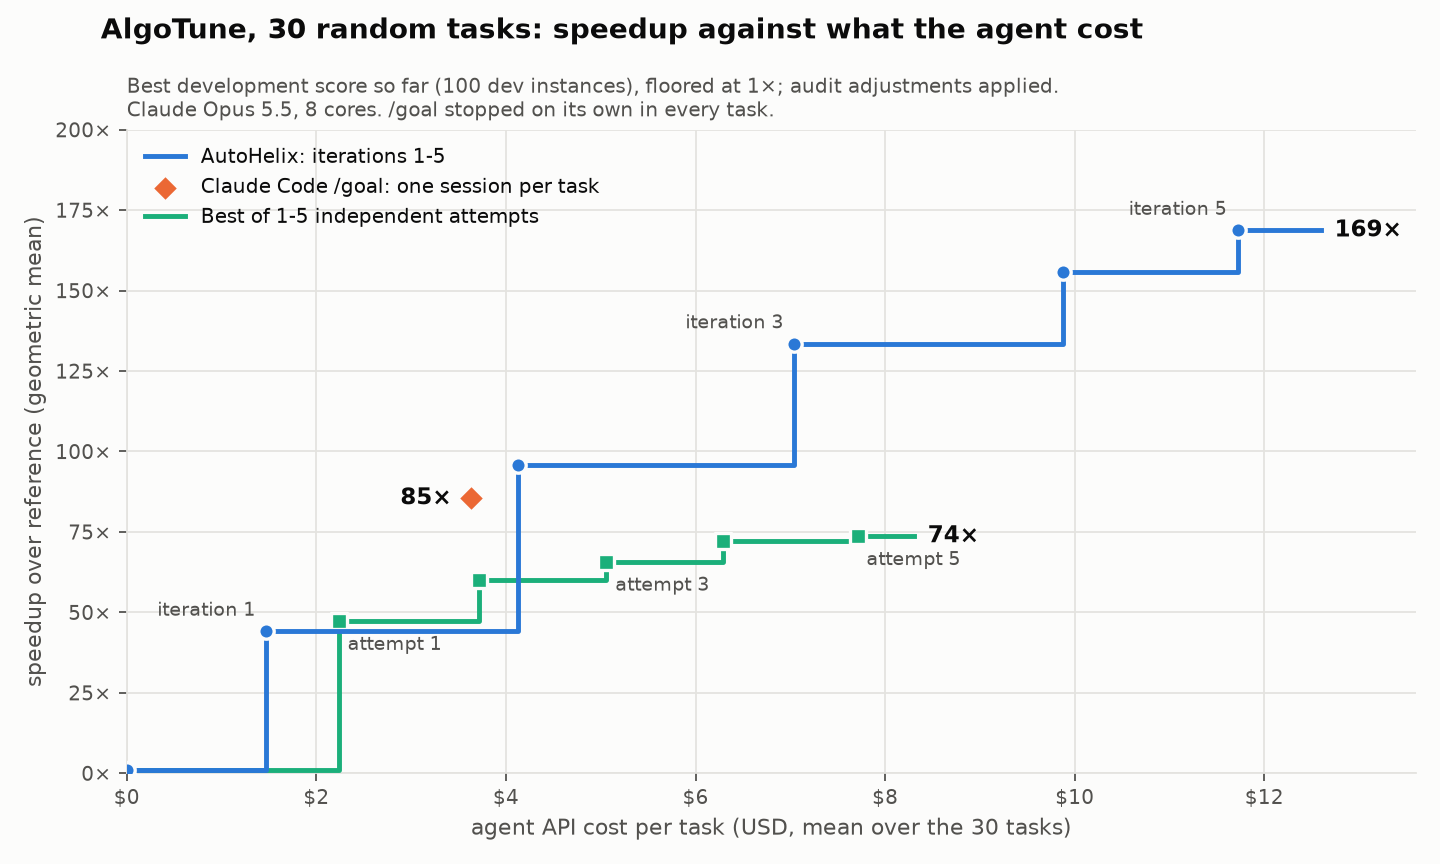
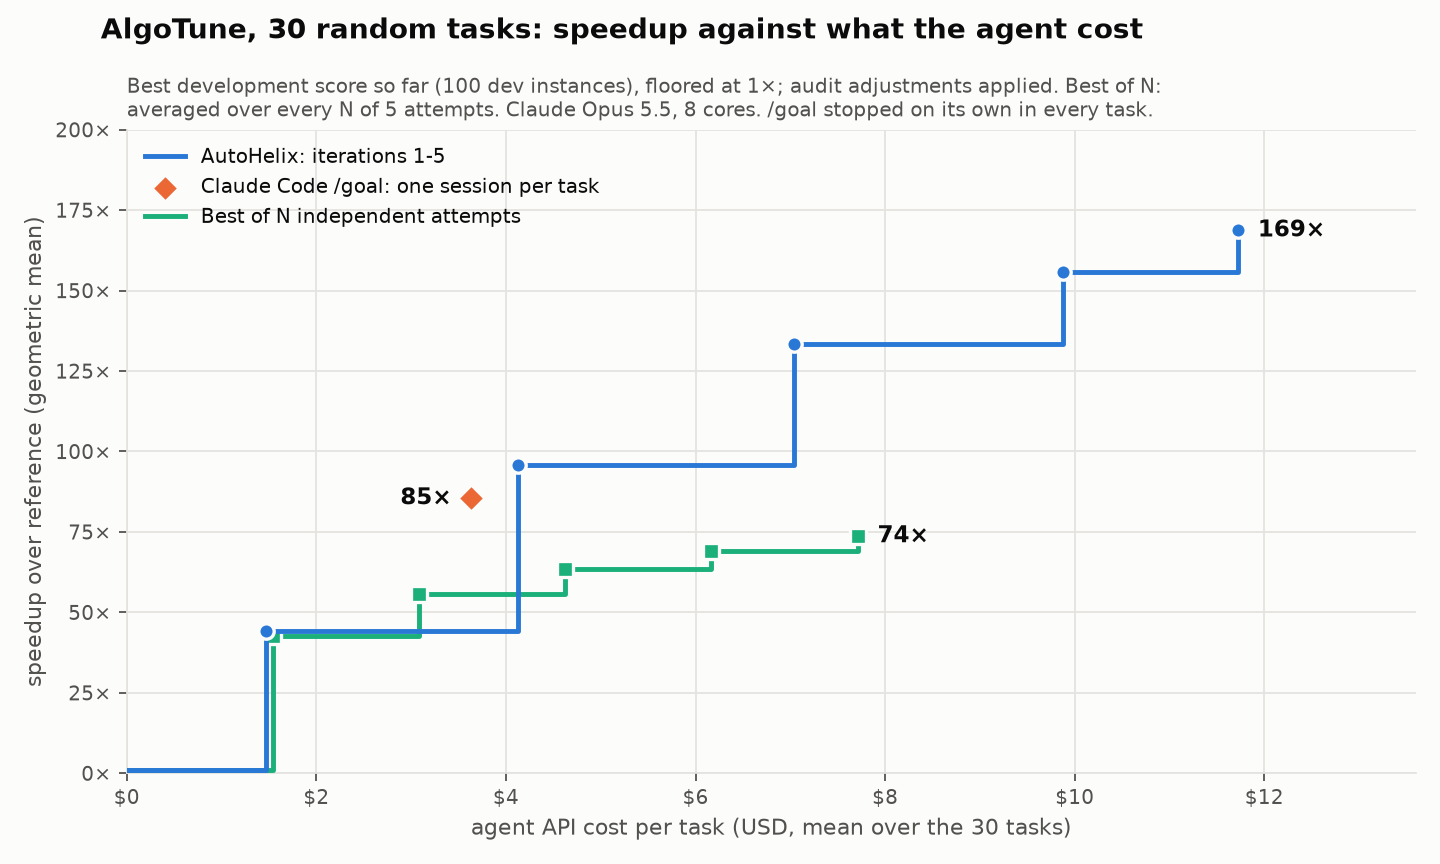
AlgoTune progress figure: best of N averaged over every N of 5 attempts; no labels; lines end at the last point

diff --git a/results/algotune/make_plot.py b/results/algotune/make_plot.py
@@ -10,7 +10,9 @@ aes_gcm_encryption stays in as measured, flagged: the evaluator's memory use dur
 hurt AutoHelix and best-of there, not /goal.
 """
 
+import itertools
 import json
+import math
 import os
 import statistics
 
@@ -85,39 +87,46 @@ def style(ax, t):
 
 
 def step_costs(task):
-    """Agent cost after 0..5 AutoHelix iterations and after 0..5 best-of attempts."""
-    ah = [0.0] + [sum(i["cost_usd"] for i in progress[task]["autohelix_dev"] if i["iteration"] <= k)
-                  for k in range(1, 6)]
-    best = [0.0] + [sum(a["cost_usd"] for a in progress[task]["best_dev"] if a["attempt"] <= k)
+    """Agent cost after 0..5 AutoHelix iterations (in run order)."""
+    return [0.0] + [sum(i["cost_usd"] for i in progress[task]["autohelix_dev"] if i["iteration"] <= k)
                     for k in range(1, 6)]
-    return ah, best
+
+
+def best_of(task):
+    """Best of N independent attempts for N = 0..5, averaged over every subset of N of the 5
+    attempts (as pass@k is estimated), so the attempts' run order adds no noise: (speedup as the
+    geometric mean over subsets of the best, cost as N times the mean attempt cost)."""
+    attempts = [(3.0 if task == "shortest_path_dijkstra" and a["attempt"] in (1, 5) and a["speedup"]
+                 else max(a["speedup"] or 1.0, 1.0), a["cost_usd"]) for a in progress[task]["best_dev"]]
+    speed, cost = [1.0], [0.0]
+    for k in range(1, 6):
+        subsets = list(itertools.combinations(attempts, k))
+        speed.append(math.exp(statistics.mean(math.log(max(a[0] for a in c)) for c in subsets)))
+        cost.append(statistics.mean(sum(a[1] for a in c) for c in subsets))
+    return speed, cost
 
 
 def draw_progress(theme):
     t = THEMES[theme]
     blue, orange, aqua = t["series"]
     n = len(TASKS)
-    steps = [dev_steps(task) for task in TASKS]
-    costs = [step_costs(task) for task in TASKS]
+    ah_speed = [dev_steps(task)[0] for task in TASKS]
+    ah_cost = [step_costs(task) for task in TASKS]
+    best = [best_of(task) for task in TASKS]
     fig, ax = plt.subplots(figsize=(9, 5.4), dpi=160)
     fig.patch.set_facecolor(t["surface"])
     style(ax, t)
-    end = 12.6
-    for arm, (name, color, marker, z) in enumerate((("Best of 1-5 independent attempts", aqua, "s", 3),
-                                                    ("AutoHelix: iterations 1-5", blue, "o", 4))):
-        arm = 1 - arm  # steps/costs hold AutoHelix first, best-of second
-        xs = [sum(c[arm][k] for c in costs) / n for k in range(6)]
-        ys = [statistics.geometric_mean([s[arm][k] for s in steps]) for k in range(6)]
-        edge = xs + [end if arm == 0 else xs[-1] + 0.6]
-        ax.step(edge, ys + [ys[-1]], where="post", color=color, linewidth=2.2, zorder=z, label=name)
-        ax.scatter(xs, ys, s=48, marker=marker, color=color, edgecolors=t["surface"], linewidths=1.5,
-                   zorder=z + 0.5)
-        word = "iteration" if arm == 0 else "attempt"
-        for k in (1, 3, 5):
-            ax.annotate(f"{word} {k}", xy=(xs[k], ys[k]), xytext=(-5, 7) if arm == 0 else (4, -13),
-                        ha="right" if arm == 0 else "left", textcoords="offset points",
-                        color=t["muted"], fontsize=8.5)
-        ax.annotate(f"{ys[-1]:.0f}×", xy=(edge[-1], ys[-1]), xytext=(6, 0), textcoords="offset points",
+    series = [("Best of N independent attempts", aqua, "s", 3,
+               [sum(b[1][k] for b in best) / n for k in range(6)],
+               [statistics.geometric_mean([b[0][k] for b in best]) for k in range(6)]),
+              ("AutoHelix: iterations 1-5", blue, "o", 4,
+               [sum(c[k] for c in ah_cost) / n for k in range(6)],
+               [statistics.geometric_mean([s[k] for s in ah_speed]) for k in range(6)])]
+    for name, color, marker, z, xs, ys in series:
+        ax.step(xs, ys, where="post", color=color, linewidth=2.2, zorder=z, label=name)
+        ax.scatter(xs[1:], ys[1:], s=48, marker=marker, color=color, edgecolors=t["surface"],
+                   linewidths=1.5, zorder=z + 0.5)
+        ax.annotate(f"{ys[-1]:.0f}×", xy=(xs[-1], ys[-1]), xytext=(9, 0), textcoords="offset points",
                     va="center", color=t["text"], fontsize=10.5, fontweight="bold")
     goal_x = sum(subset[task]["goal"]["cost_usd"] for task in TASKS) / n
     goal = [max(subset[task]["goal"].get("dev_rescored") or 1.0, 1.0) for task in TASKS]
@@ -134,13 +143,14 @@ def draw_progress(theme):
     ax.set_ylabel("speedup over reference (geometric mean)", color=t["muted"], fontsize=10)
     handles, labels = ax.get_legend_handles_labels()
     order = [labels.index(name) for name in ("AutoHelix: iterations 1-5",
-             "Claude Code /goal: one session per task", "Best of 1-5 independent attempts")]
+             "Claude Code /goal: one session per task", "Best of N independent attempts")]
     ax.legend([handles[i] for i in order], [labels[i] for i in order], loc="upper left",
               frameon=False, fontsize=9, labelcolor=t["text"])
     fig.suptitle(f"AlgoTune, {n} random tasks: speedup against what the agent cost",
                  x=0.07, ha="left", color=t["text"], fontsize=12.5, fontweight="bold")
     ax.set_title("Best development score so far (100 dev instances), floored at 1×; audit adjustments "
-                 "applied.\nClaude Opus 5.5, 8 cores. /goal stopped on its own in every task.",
+                 "applied. Best of N:\naveraged over every N of 5 attempts. Claude Opus 5.5, 8 cores. "
+                 "/goal stopped on its own in every task.",
                  loc="left", color=t["muted"], fontsize=8.8)
     fig.tight_layout()
     path = os.path.join(ASSETS, f"algotune_progress-{theme}.png")
